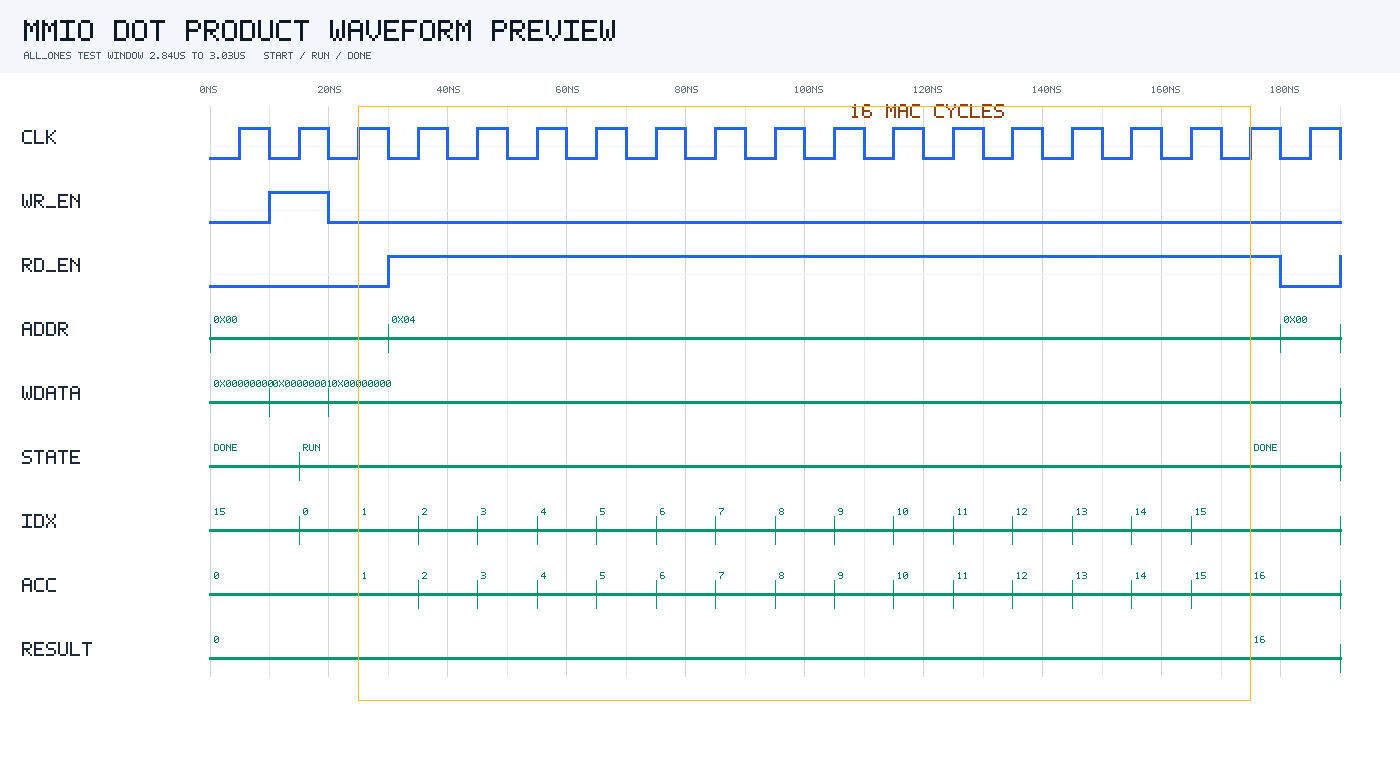
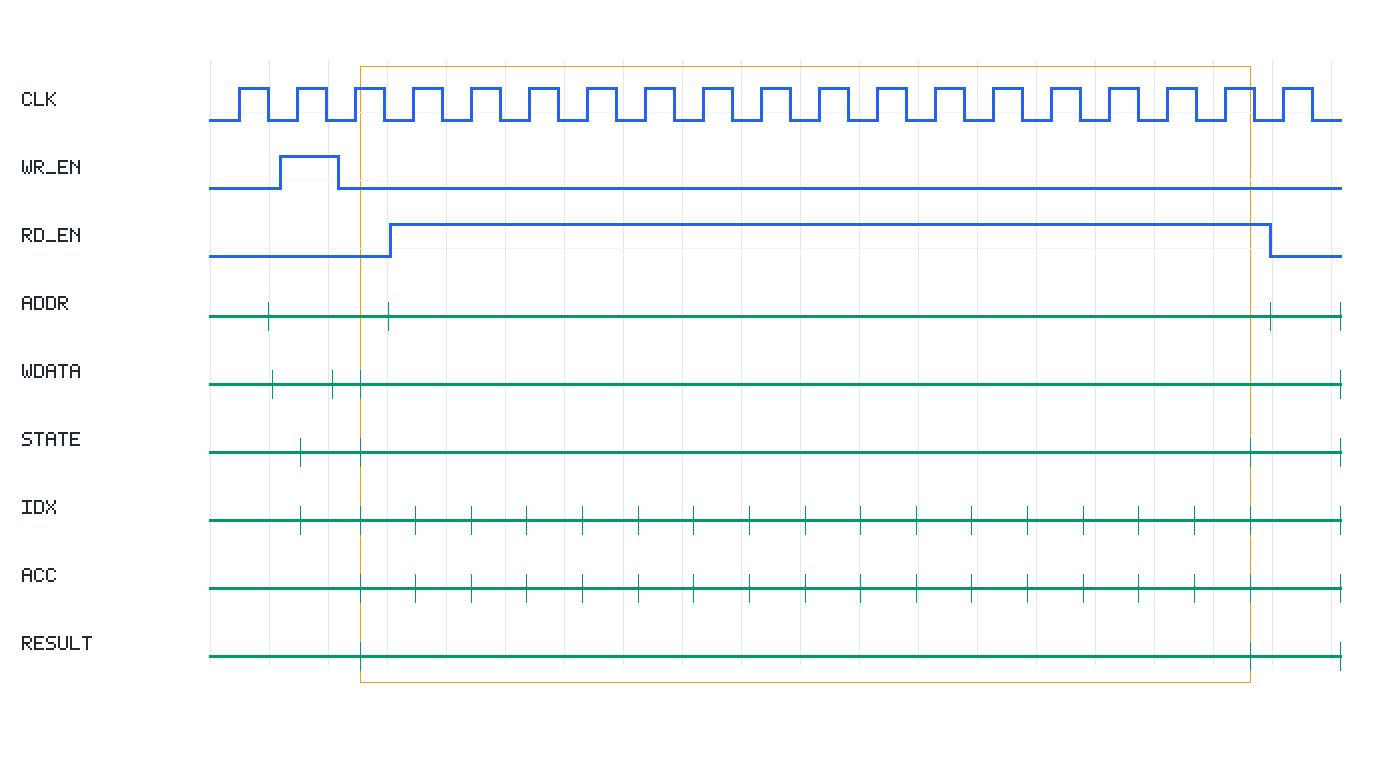
Clean waveform preview

diff --git a/README.md b/README.md
@@ -4,6 +4,8 @@ A simulation-only SystemVerilog accelerator that computes a signed 16-element do
 
 ![Waveform preview](screenshots/waveform_basic_test.png)
 
+The waveform preview shows the all-ones test case: an MMIO start pulse, the 16-cycle RUN window, accumulator/index progression, and final result latch.
+
 ## Architecture
 
 ```
